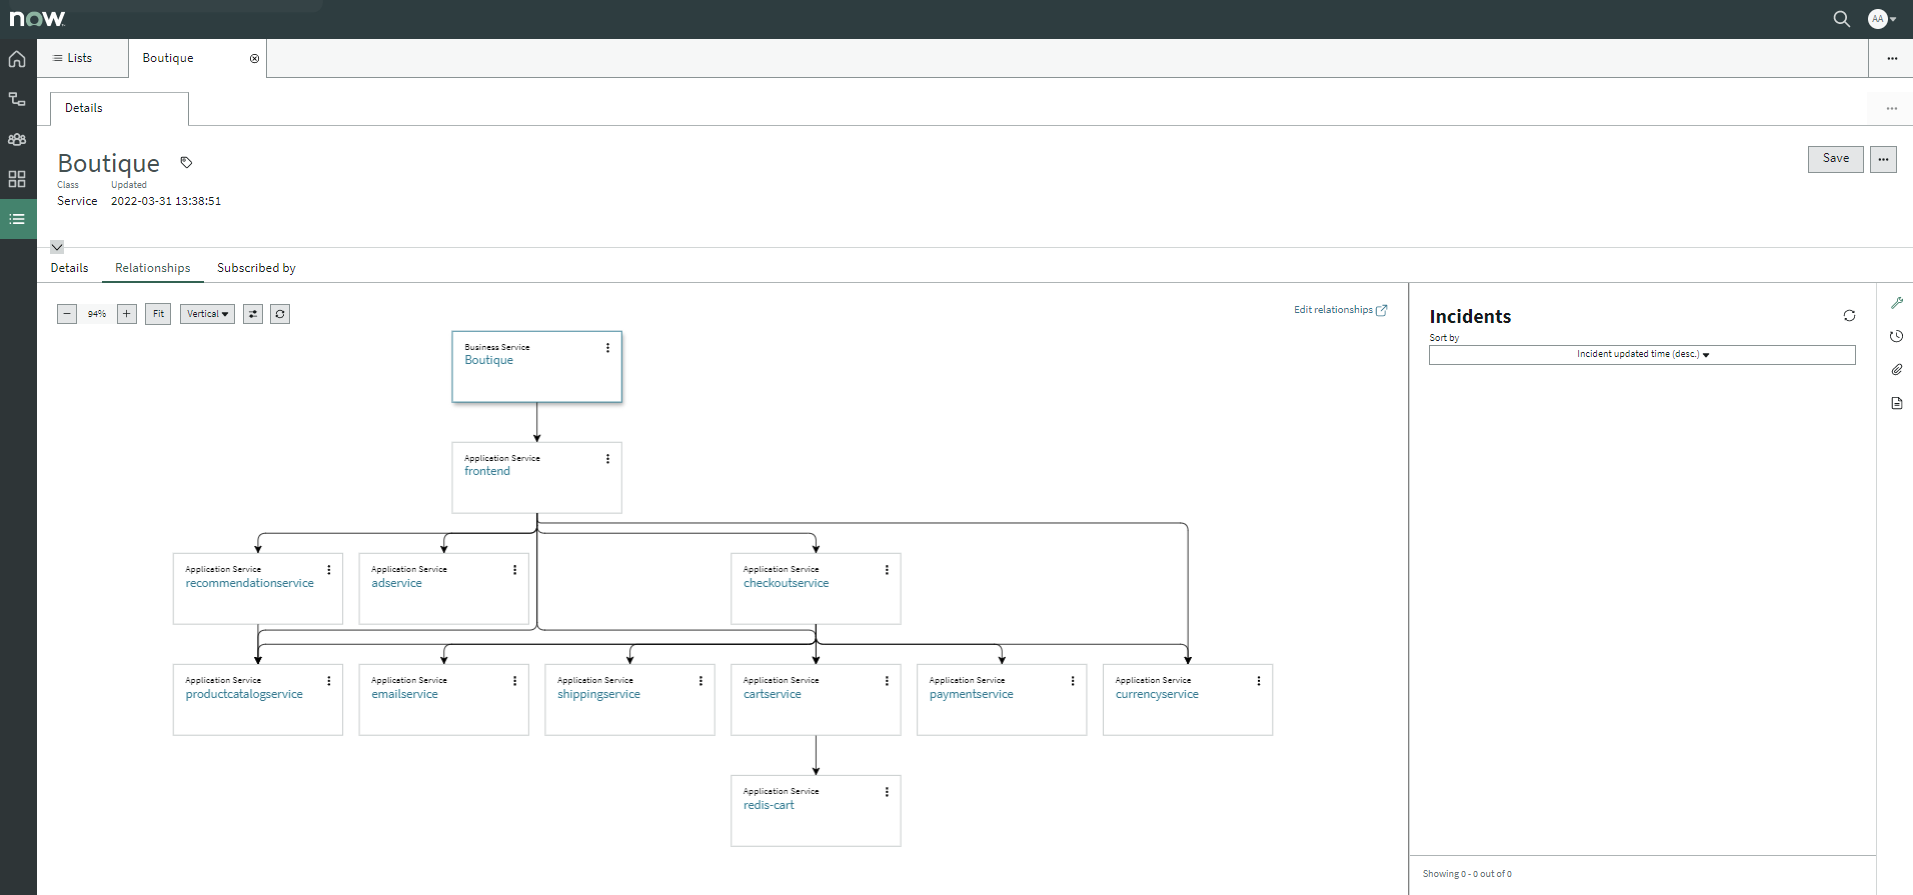
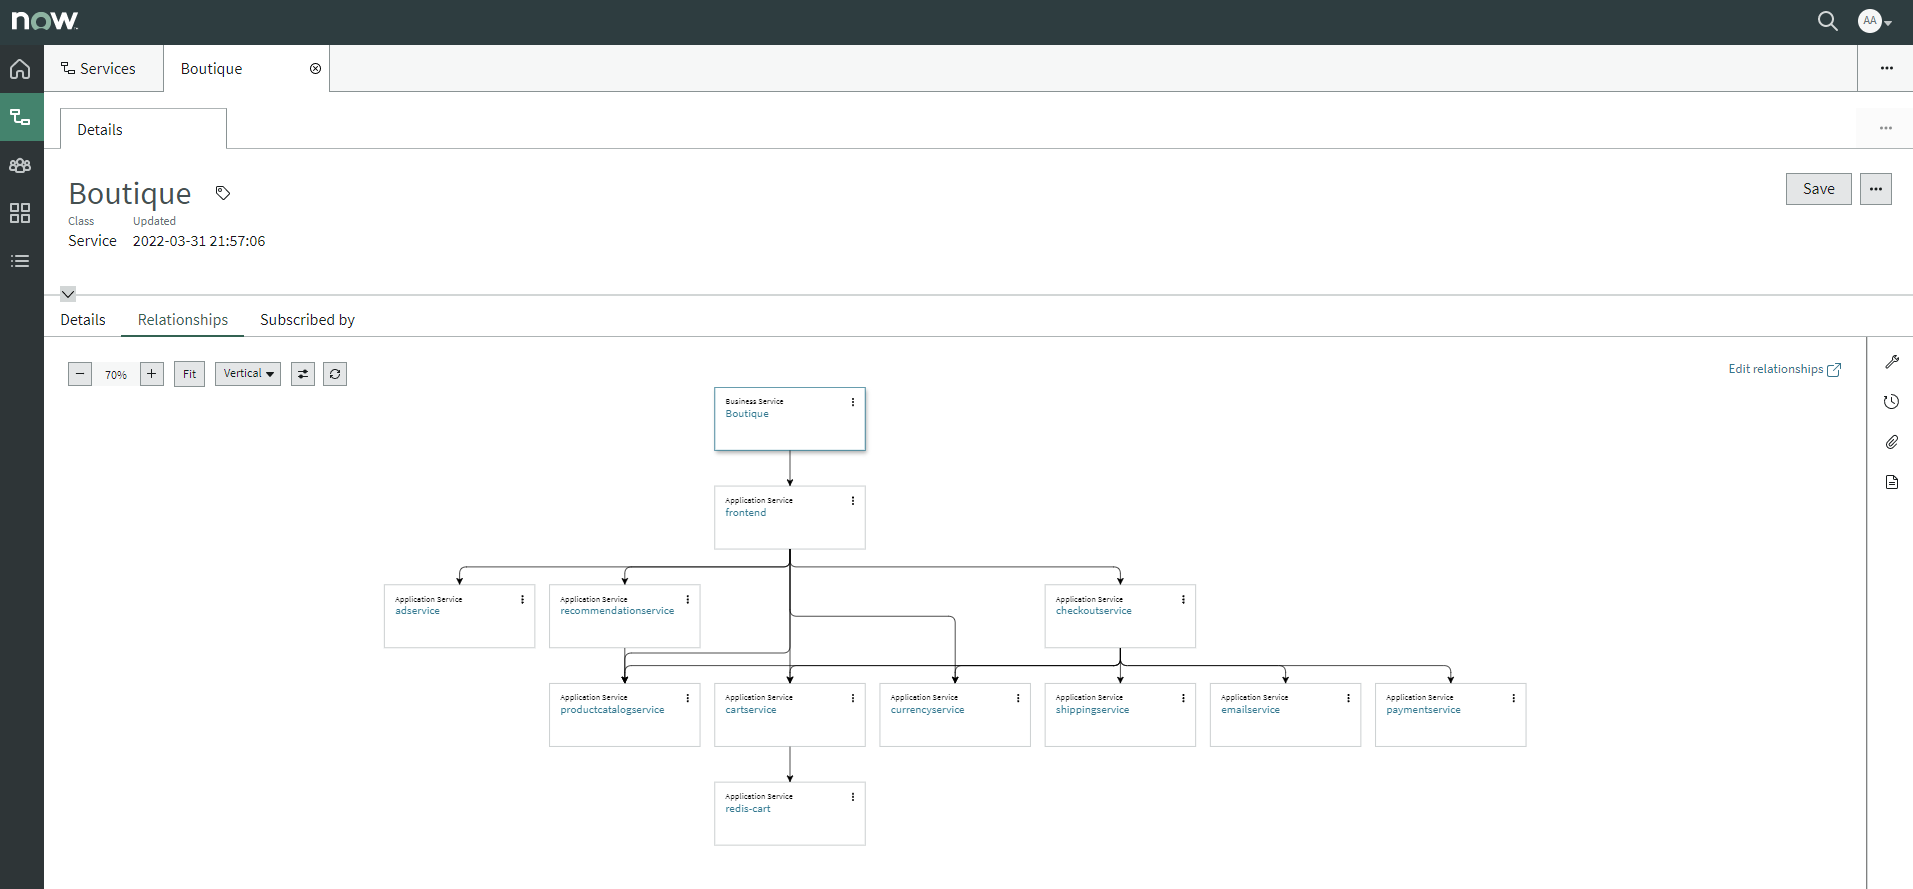
Update

diff --git a/pages/artemis/artemis_microservice_viz_guide.md b/pages/artemis/artemis_microservice_viz_guide.md
@@ -15,19 +15,7 @@ folder: artemis
 
 ## Register Services
 
-### Configure SRO User ID
-
-Registering services via REST API requires a ServiceNow SRO User ID to be created and roled accordingly. Procedure is as follows:
-
-1. Login to your SN Instance as Administrator
-
-1. Navigate to **User Admininstration > Users**
-
-1. Create an SRO User ID (e.g. `sroadmin`) and grant the `sn_sro.sro_admin` Role
-
-### Register Boutique Application
-
-The Boutique application consists of 12 services which need to be registered in the ServiceNow CMDB for visibility and observability. Procedure is as follows:
+### Configure Pipeline
 
 1. Sign In to [Azure DevOps]({{site.data.urls.ado}})
 
@@ -60,8 +48,8 @@ The Boutique application consists of 12 services which need to be registered in 
 
     | Name | Value | Keep this value secret | Let users override this value when running this pipeline | 
     |-------|-------|-------|-------|
-    | NOW_USERNAME | SRO USER ID (e.g. `sroadmin`) | False | True | 
-    | NOW_PASSWORD | SRO USER PASSWORD  | True | True |
+    | NOW_USERNAME | YOUR SN USER ID | False | True | 
+    | NOW_PASSWORD | YOUR SN PASSWORD | True | True |
     | NOW_SERVER | YOUR SERVICENOW URL | False | True |
     | SERVICE_MAP | `boutique.json` | False | True |
 
@@ -74,68 +62,41 @@ The Boutique application consists of 12 services which need to be registered in 
     | Name  |  `register-services` |
     | Select folder | `\azure-pipelines` | 
 
+### Run Pipeline    
+
 1. Press `Run Pipeline`
 
-1. Review parameters and press `Run`
+1. Review **Variables** and press `Run`
 
-### Configure SRO Application
+1. Monitor the Pipeline and make sure it runs successfully
 
-1. Browse to the [ServiceNow Store]({{site.data.urls.sro}})
+## Configure Site Reliability Operations
+### Create new Teams
 
-1. Download the `Manage_Teams_Flows.xml` Update Set
+1. Navigate to **Site Reliability Operations > Site Teams > All Teams**
 
-    > NOTE: See the `Supporting Links and Docs` section
+1. Create a Team called `Team Boutique` and add yourself as a member:
 
-1. Login to your SN Instance as Administrator
+### Assign all Services to the new Team
 
-1. Navigate to **System Update Sets > Retrieved Update Sets**
+1. Navigate to **Site Reliability Operations > Services > Unasigned Services**
 
-1. Click on the **Import Update Set from XML** link and upload file
+1. Set the **Operational Status** for each Service to `Operational`
 
-1. Preview & Commit Update Set
+1. Set the **Support Group** for each Service to `Team Boutique`
 
-1. Navigate to **Service Catalog > Maintain Items**
-
-1. Click on the `Create New Team` Catalog Item
-
-1. Enable edits by clicking on the `To edit this record click here` link
-
-1. Press the `Copy` button to copy the Catalog Item
-
-1. Name Catalog Item as `Create New SRO Team`
-
-1. Set the **Active** field to `True`
-
-1. Click on the **Process Engine** Tab
-
-1. Set the **Flow** field to `Global - Create New SRO Team`
-
-1. Press the **Update** button
-
-1. Copy the `sys_id` of the new Catalog Item
-
-1. Navigate to **Site Reliability Operations > Administration > Properties**
-
-1. Enable edits by clicking on the `To edit this record click here` link
-
-1. Set the **Update team subflow name** field to `global.global__update_team_subflow`
-
-1. Set the **Catalog Item (sys_id) which is used to Create a Team** field to the `sys_id` copied earlier
-
-1. Press the **Save** button
-
-## Create new Teams
+### Review the Service Map
 
 1. Navigate to **Site Reliability Operations > Site Reliability Ops Workspace**
 
-1. Navigate to **Home > My Teams > Create New Team**
+1. Click on the **Services** Icon
 
-1. Create a Team named `Boutique Team` and make yourself a member
+1. Click on the **Boutique** Service
 
-1. Navigate to **Self Service > Requested Items**
+1. Clon on **Relationships** Tab
 
-1. Locate the `Create New SRO Team` Request Item
+1. Review the _Boutique_ Service Map
 
-1. Set the **Approval** field to `Approved`
+    ![Boutique Service Map](images/boutique_service_map.png)
 
 {% include links.html %}

diff --git a/_includes/pages/build_all_boutique_images.md b/_includes/pages/build_all_boutique_images.md
@@ -48,9 +48,11 @@ The Boutique application consists of 12 Docker Images which need to be built and
 
 1. Press `Run Pipeline`
 
-1. Review parameters and press `Run`
+1. Review **Variables** and press `Run`
 
     > NOTE: Be patient, the pipeline takes at least 10 minutes to complete.
+
+1. Monitor the Pipeline and make sure it runs successfully
 
 1. Browse to [Docker Hub]({{site.data.urls.docker_hub}}) to verify your images.
 

diff --git a/_includes/pages/request_sn_instance.md b/_includes/pages/request_sn_instance.md
@@ -7,3 +7,5 @@ ServiceNow (SN) is a leading Cloud Computing platform built to help companies ma
 
 * ServiceNow employees can request a *new internal instance* from:
     *  [https://support.servicenow.com](https://support.servicenow.com)
+
+> NOTE: Create yourself a User Account with an Administrator `admin` Role
